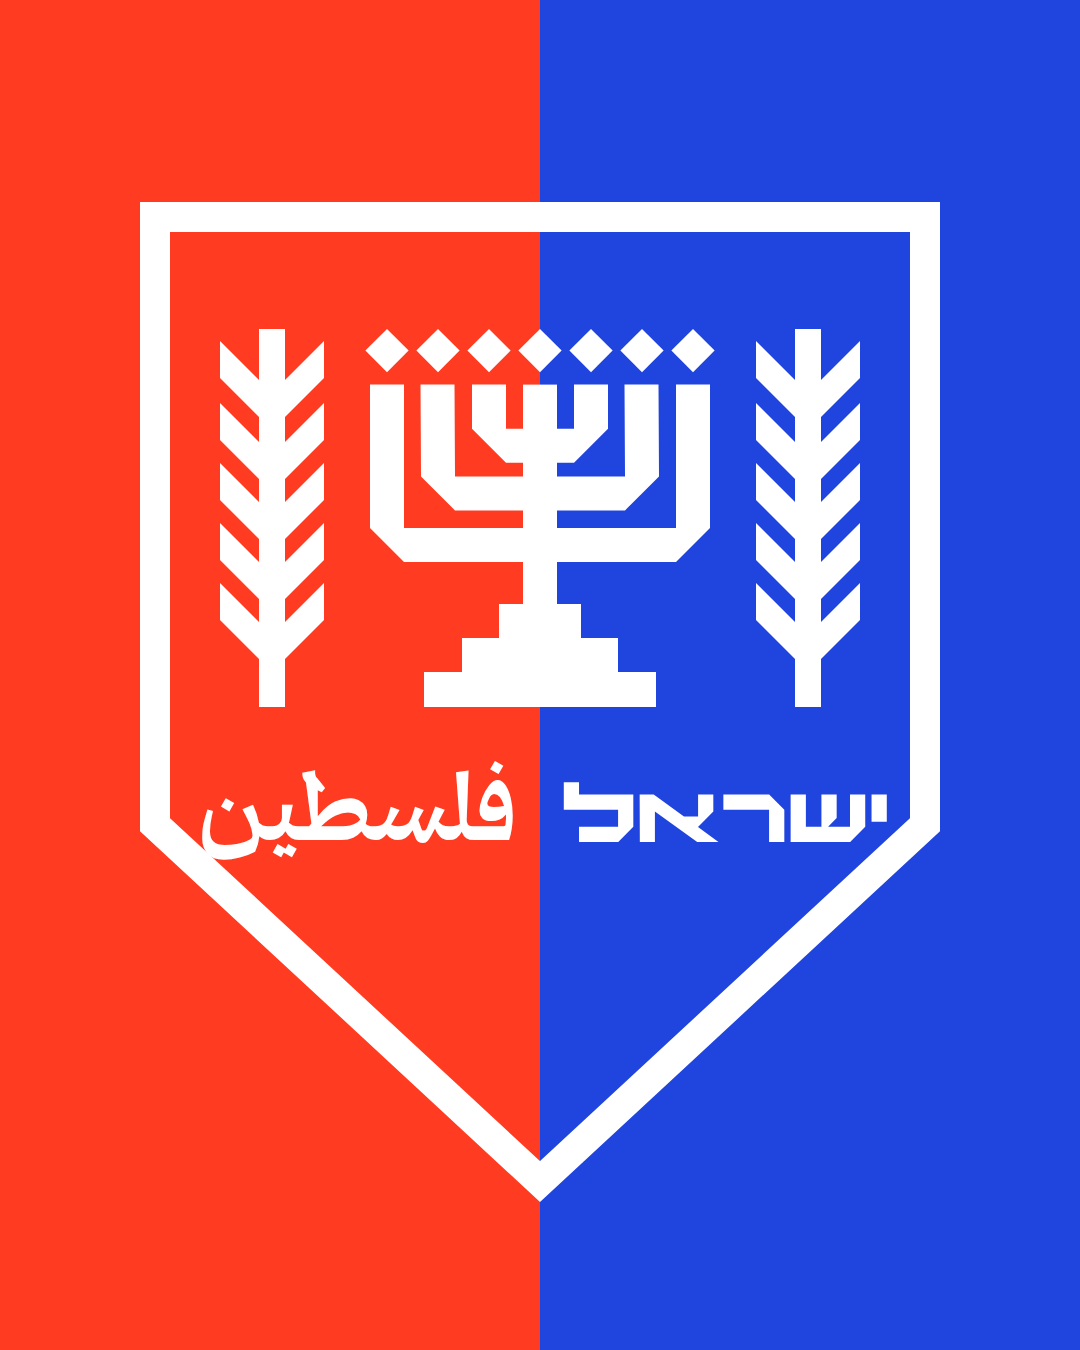
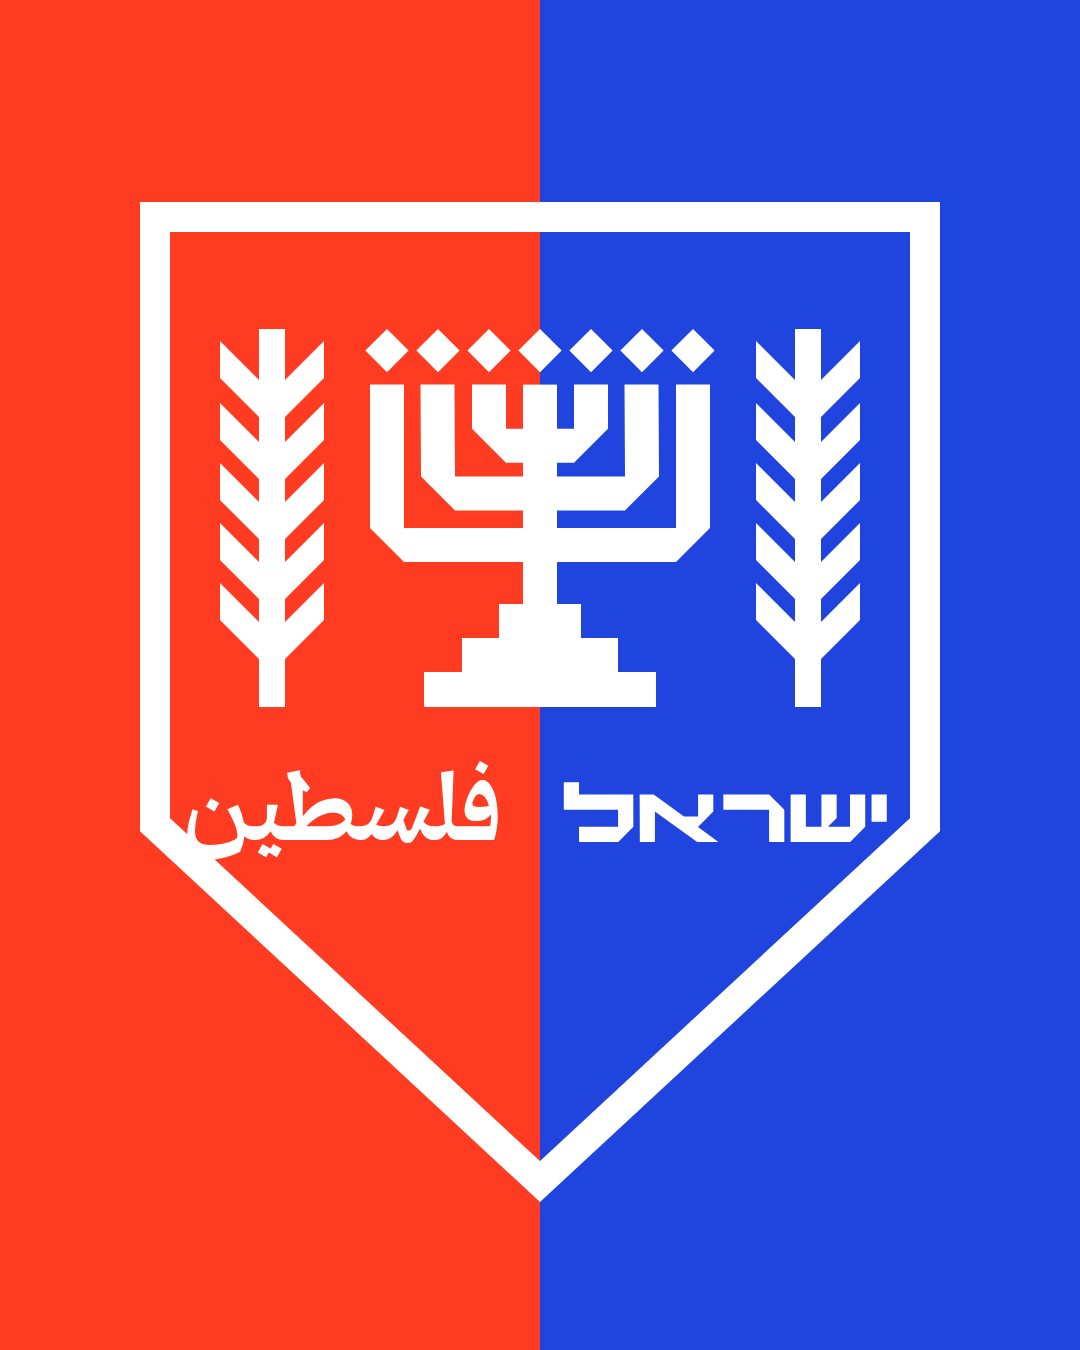
Elections: the split emblem with a diagonal line between the colours
Nir, 27 Oct: the same two sketches with the blue and red divided on a slant
that passes between ישראל and فلسطين.

Claude-Session: https://claude.ai/code/session_01QmomKUobm2RviE4ywroAdi

Changed region(s): [[0.1528, 0.56, 0.4889, 0.6533]]

diff --git a/motion/elections/emblem-split/emblem2.html b/motion/elections/emblem-split/emblem2.html
@@ -9,9 +9,9 @@ function build(v){
     '<text x="810" y="566" font-family="DX" font-weight="700" font-size="165" fill="white" text-anchor="middle" direction="rtl">ת</text>'+
     '<text x="272" y="638" font-family="SB" font-weight="700" font-size="250" fill="white" text-anchor="middle" direction="rtl">أ</text>';
   var words='<g transform="translate(725 812) scale(0.62) translate(-544.5 -811.6)">'+WORD.join('')+'</g>'+
-    '<text x="355" y="840" font-family="SB" font-weight="700" font-size="92" fill="white" text-anchor="middle" direction="rtl">فلسطين</text>';
+    '<text x="340" y="840" font-family="SB" font-weight="700" font-size="92" fill="white" text-anchor="middle" direction="rtl">فلسطين</text>';
   document.getElementById('s').innerHTML='<svg width="1080" height="1350" viewBox="0 0 1080 1350" fill="none" xmlns="http://www.w3.org/2000/svg">'+
-    '<rect width="540" height="1350" fill="#FF3B21"/><rect x="540" width="540" height="1350" fill="#2045DE"/>'+REST.join('')+olives+words+'</svg>';
+    (window.DIAG ? '<rect width="1080" height="1350" fill="#2045DE"/><polygon points="0,0 650,0 430,1350 0,1350" fill="#FF3B21"/>' : '<rect width="540" height="1350" fill="#FF3B21"/><rect x="540" width="540" height="1350" fill="#2045DE"/>')+REST.join('')+olives+words+'</svg>';
 }
 window.__ready=Promise.all([document.fonts.load('700 100px DX','ת'),document.fonts.load('700 100px SB','فلسطينأ')]);
 </script>

diff --git a/motion/elections/emblem-split/shot-diag.js b/motion/elections/emblem-split/shot-diag.js
@@ -1,0 +1,6 @@
+const { chromium } = require('playwright'); const path=require('path');
+(async()=>{ const b=await chromium.launch(); const p=await b.newPage({viewport:{width:1080,height:1350}});
+ await p.goto('file://'+path.resolve(process.argv[2])); await p.evaluate(()=>window.__ready);
+ for(const v of ['a','b']){ await p.evaluate(v=>{window.DIAG=true; build(v);},v); await p.waitForTimeout(100);
+   await p.screenshot({path:path.join(path.dirname(process.argv[2]),'emblem-'+v+'-diag.png')}); }
+ await b.close(); })();
